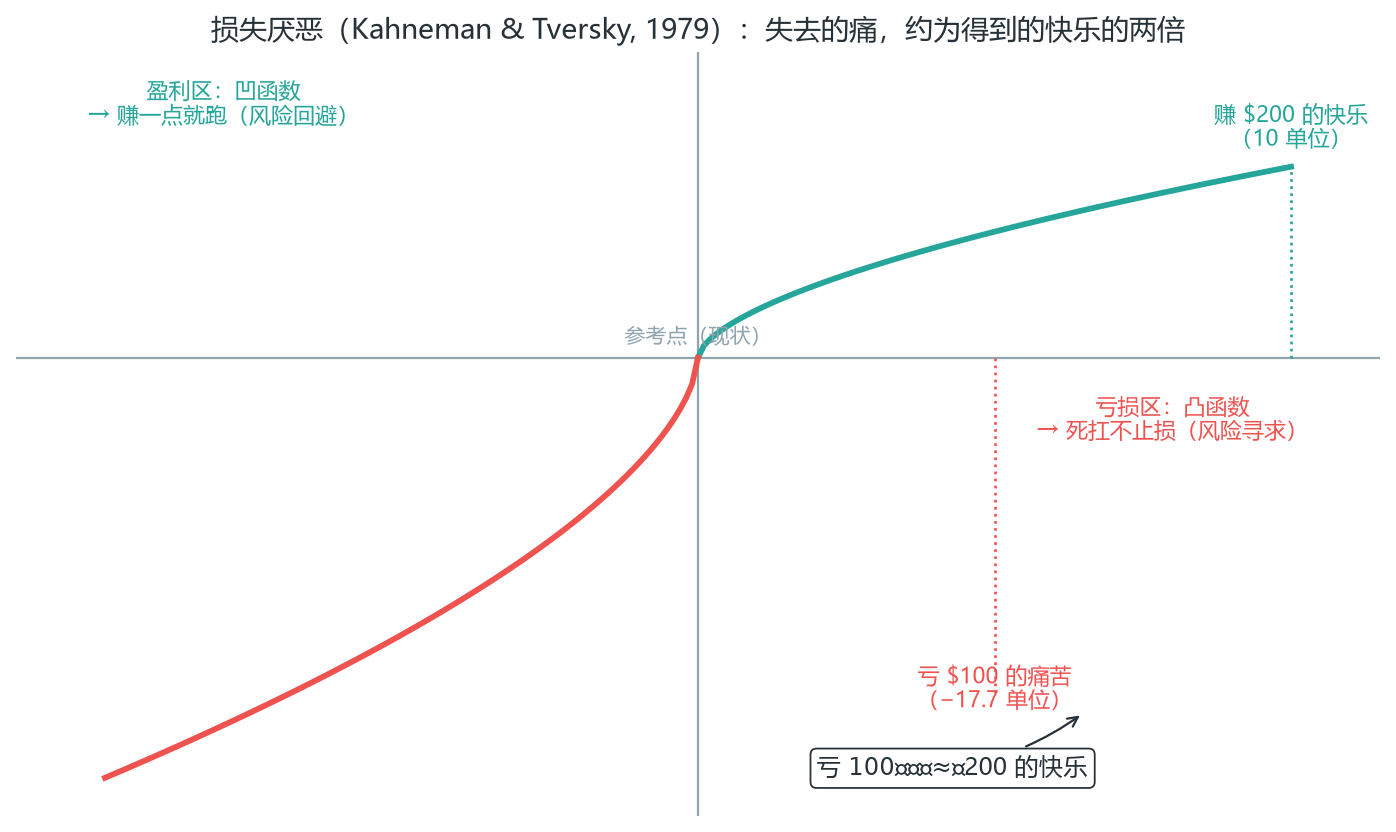
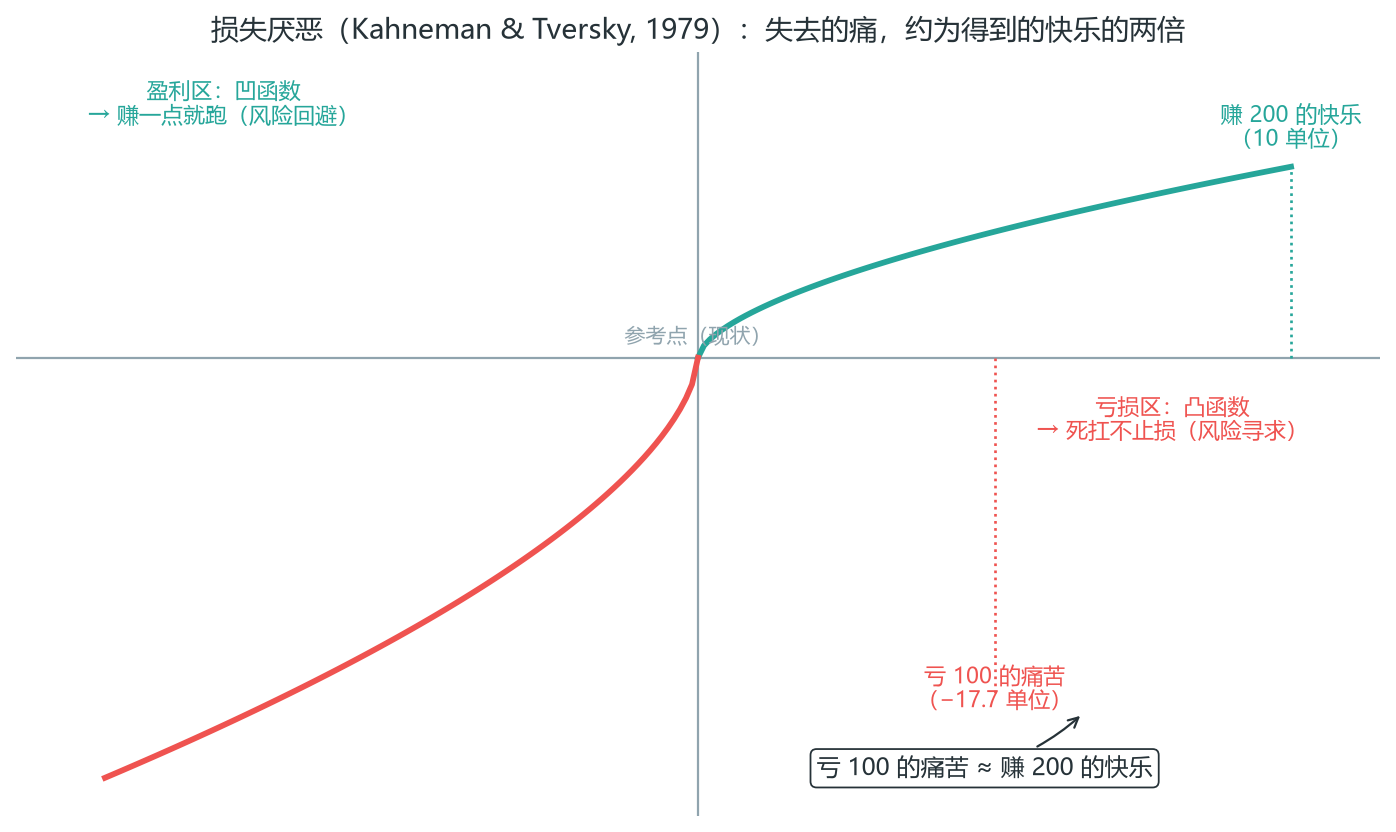
第2章融合PA_Agent规则库：K线信号字典(信号棒/入场棒/确认棒/ioi/2BR/MDB)+铁丝网+20GB，新增图2-2/2-8两张代码图

Changed region(s): [[0.5852, 0.875, 0.8317, 0.9688], [0.6777, 0.7812, 0.7701, 0.8438], [0.8625, 0.125, 0.9857, 0.1562]]

diff --git a/draw_handbook_figs.py b/draw_handbook_figs.py
@@ -1356,9 +1356,9 @@ def fig_p7_loss_aversion():
     # 对比：+200 的快乐 vs −100 的痛苦
     ax.plot([100, 100], [0, -17.7], color=DOWN, ls=":", lw=1.2)
     ax.plot([200, 200], [0, 10], color=UP, ls=":", lw=1.2)
-    mark(ax, 200, 10.8, "赚 $200 的快乐\n（10 单位）", color=UP, fs=10, ha="center")
-    mark(ax, 100, -18.6, "亏 $100 的痛苦\n（−17.7 单位）", color=DOWN, fs=10, ha="center")
-    annotate_mark(ax, 130, -18.6, "亏 $100 的痛苦 ≈ 赚 $200 的快乐", 40, -21.5, color=DARK, fs=11)
+    mark(ax, 200, 10.8, "赚 200 的快乐\n（10 单位）", color=UP, fs=10, ha="center")
+    mark(ax, 100, -18.6, "亏 100 的痛苦\n（−17.7 单位）", color=DOWN, fs=10, ha="center")
+    annotate_mark(ax, 130, -18.6, "亏 100 的痛苦 ≈ 赚 200 的快乐", 40, -21.5, color=DARK, fs=11)
     mark(ax, 160, -4.5, "亏损区：凸函数\n→ 死扛不止损（风险寻求）", color=DOWN, fs=10)
     mark(ax, -160, 12, "盈利区：凹函数\n→ 赚一点就跑（风险回避）", color=UP, fs=10)
     ax.set_title("损失厌恶（Kahneman & Tversky, 1979）：失去的痛，约为得到的快乐的两倍", fontsize=12.5, color=DARK)
@@ -1441,7 +1441,93 @@ def main():
     fig_p7_style()
     fig_p7_loss_aversion()
     fig_p7_three_stages()
+    # ---------- v6 新增（第2章 K线信号字典 + 铁丝网，PA_Agent 提示词库） ----------
+    fig_p2_signal_bars()
+    fig_p2_barbwire()
     print("全部完成")
+
+
+# ---------------------------------------------------------------- 图 2-2（PA_Agent 文件16 K线信号字典）
+def fig_p2_signal_bars():
+    """2.1 K 线信号字典：信号棒→入场棒→确认棒、内包/外包、ioi、2BR、MDB"""
+    fig, axes = plt.subplots(2, 2, figsize=(13, 8.6))
+    # (a) 信号棒→入场棒→确认棒
+    ax = axes[0][0]
+    for x, o, h, l, c in [(0, 98, 105.8, 97.2, 105.2), (1, 104.2, 107.2, 103.4, 106.8), (2, 106.2, 109.2, 105.4, 108.6)]:
+        candle(ax, x, o, h, l, c)
+    hl_line(ax, -0.4, 0.45, 105.8, color=UP, ls=":", lw=1.2)
+    hl_line(ax, -0.4, 3.3, 106.8, color=GRAY, ls=":", lw=1.0)
+    mark(ax, 0, 110.5, "①信号棒", color=DARK, fs=10.5, box=True)
+    mark(ax, 0, 110.5, "收盘近高点、实体大\n不超过平均 1.5 倍", dy=-1.9, color=DARK, fs=8.5)
+    mark(ax, 1, 112.6, "②入场棒：突破信号棒高点触发", color=UP, fs=10, box=True)
+    mark(ax, 2, 115, "③确认棒：继续创新高", color=UP, fs=10, box=True)
+    mark(ax, 1.65, 107.9, "突破触发", color=GRAY, fs=8.5)
+    style_ax(ax, xlim=(-0.6, 3.4), ylim=(95.5, 116.5))
+    ax.set_title("(a) 一次入场三段式：信号→入场→确认", fontsize=11, color=DARK)
+    # (b) 内包 vs 外包
+    ax = axes[0][1]
+    candle(ax, 0, 100, 105, 99, 104)
+    candle(ax, 1, 102.6, 104, 101.6, 103.4)
+    mark(ax, 1, 105.6, "IB 内包：收缩\n单根不单独交易", color=GRAY, fs=9.5, box=True)
+    candle(ax, 3.6, 100, 105, 99, 104)
+    candle(ax, 4.6, 103.2, 107.2, 97.8, 106.4)
+    mark(ax, 4.6, 108.6, "OB 外包：扩张\n不是突破信号", color=ORANGE, fs=9.5, box=True)
+    style_ax(ax, xlim=(-0.6, 5.8), ylim=(95.5, 112))
+    ax.set_title("(b) 内包棒（波动收缩）vs 外包棒（波动扩张）", fontsize=11, color=DARK)
+    # (c) ioi 模式
+    ax = axes[1][0]
+    candle(ax, 0, 100, 105, 99, 104)
+    candle(ax, 1, 102.6, 104, 101.6, 103.4)
+    candle(ax, 2, 102, 107.6, 100.4, 106.8)
+    candle(ax, 3, 105.6, 106.9, 104.5, 106.2)
+    mark(ax, 1, 108.8, "① 内包：犹豫", color=GRAY, fs=9.5)
+    mark(ax, 2, 111, "② 外包：选择方向（突破）", color=UP, fs=9.5)
+    mark(ax, 3, 108.8, "③ 内包：蓄力", color=GRAY, fs=9.5)
+    mark(ax, 1.9, 96.5, "ioi = 突破模式：等第三根内包后的触发，方向由背景决定", color=DARK, fs=9.5, box=True, va="top")
+    style_ax(ax, xlim=(-0.6, 4.3), ylim=(94.5, 113))
+    ax.set_title("(c) ioi 组合：内包→外包→内包", fontsize=11, color=DARK)
+    # (d) 2BR + MDB
+    ax = axes[1][1]
+    candle(ax, 0, 105, 106.8, 103.2, 104.4)
+    candle(ax, 1, 104.4, 108, 103.8, 107.6)
+    mark(ax, 0.5, 109.6, "2BR 双棒反转：第二根实体≥第一根50%\n胜率仅 50-55%，须在关键位读", color=DOWN, fs=9.5, box=True)
+    candle(ax, 3.4, 103.6, 105.6, 103, 105.2)
+    candle(ax, 4.4, 103.8, 106.4, 103, 106)
+    hl_line(ax, 3.2, 4.8, 103, color=UP, ls=":", lw=1.2)
+    mark(ax, 3.9, 108.4, "MDB 微双底：两根棒低点差<2跳\n卖方两次突破失败", color=UP, fs=9.5, box=True)
+    style_ax(ax, xlim=(-0.6, 5.6), ylim=(101, 112))
+    ax.set_title("(d) 2BR 双棒反转 与 MDB 微双底", fontsize=11, color=DARK)
+    fig.suptitle("K 线信号字典：先上下文，再形态；没有跟随的信号不能当成高概率机会", fontsize=13, color=DARK, y=0.99)
+    savefig(fig, "fig_p2_signal_bars.png")
+
+
+# ---------------------------------------------------------------- 图 2-8（PA_Agent 文件21 铁丝网）
+def fig_p2_barbwire():
+    """2.8 铁丝网 Barbwire：紧凑重叠、绕 EMA 穿梭——大部分信号忽略"""
+    fig, ax = plt.subplots(figsize=(13, 6.3))
+    style_ax(ax, xlim=(-1, 17), ylim=(96.2, 104.4))
+    # EMA20 平坦线
+    ax.plot([-1, 17], [100, 100], color=ORANGE, lw=1.8, zorder=1)
+    mark(ax, 15.8, 100.35, "EMA20（平坦纠缠）", color=ORANGE, fs=9.5)
+    # 铁丝网K线：绕100穿梭、小实体、重叠、十字星
+    k = [(0, 99.8, 100.9, 99.3, 100.6), (1, 100.5, 101.1, 99.7, 100.2), (2, 100.1, 100.7, 99.4, 99.9),
+         (3, 99.8, 100.5, 99.2, 100.3), (4, 100.2, 100.9, 99.6, 99.8), (5, 99.7, 100.4, 99.3, 100.1),
+         (6, 100, 100.6, 99.4, 99.7), (7, 99.6, 100.2, 99.1, 100), (8, 99.9, 100.6, 99.3, 99.6),
+         (9, 99.6, 100.1, 99, 99.9), (10, 99.8, 100.4, 99.2, 99.7), (11, 99.6, 100.2, 99.1, 100.1),
+         (12, 100, 100.8, 99.5, 100.4), (13, 100.3, 101, 99.7, 100), (14, 99.9, 100.5, 99.4, 100.2)]
+    for x, o, h, l, c in k:
+        candle(ax, x, o, h, l, c, width=0.52)
+    # 区间上下沿
+    hl_line(ax, -0.8, 15.6, 101.0, color=GRAY, ls=":", lw=1.1)
+    hl_line(ax, -0.8, 15.6, 99.0, color=GRAY, ls=":", lw=1.1)
+    ax.annotate("", xy=(15.6, 99.0), xytext=(15.6, 101.0),
+                arrowprops=dict(arrowstyle="<->", color=GRAY, lw=1.3), zorder=2)
+    mark(ax, 15.55, 100, "区间宽度 ÷ 平均波段高度 < 25%\n（紧凑度）", dy=0, color=GRAY, fs=9, ha="right")
+    mark(ax, 7.5, 103.6, "铁丝网 Barbwire：紧凑重叠、绕 EMA 穿梭\n十字星/内包棒频繁但方向不明", color=DOWN, fs=11.5, box=True)
+    mark(ax, 7.5, 96.9, "大部分信号忽略；最危险 = 高点上方买、低点下方卖的普通突破（大概率假突破）", color=DOWN, fs=10.5, box=True, va="top")
+    mark(ax, 16.4, 102.6, "自检咒语：\n紧凑横向整理？\n来回穿梭？\n边界几乎重叠？", color=DARK, fs=9.5, box=True, ha="left")
+    mark(ax, 3, 97.6, "机会在铁丝网之后：突破失败（失败的失败）\n极值附近短 K 线刮头皮（仅边界）\n铁丝网后尖峰级突破 + 跟随", color=UP, fs=9.5, box=True, va="top", ha="left")
+    savefig(fig, "fig_p2_barbwire.png")
 
 
 if __name__ == "__main__":
